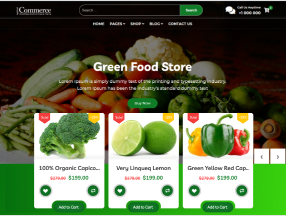
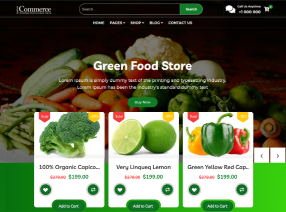
4 image added

diff --git a/index.html b/index.html
@@ -159,9 +159,24 @@
     <section class="work-gallary">
         <div class="container">
             <div class="row">
-                <div class="col-md-4">
+                <div class="col-md-3">
                     <div class="img-block">
-                        <img src="asset/img/" alt="">
+                        <img src="asset/img/gallary_1.png" alt="">
+                    </div>
+                </div>
+                <div class="col-md-3">
+                    <div class="img-block">
+                        <img src="asset/img/gallary_2.png" alt="">
+                    </div>
+                </div>
+                <div class="col-md-3">
+                    <div class="img-block">
+                        <img src="asset/img/gallary_3.png" alt="">
+                    </div>
+                </div>
+                <div class="col-md-3">
+                    <div class="img-block">
+                        <img src="asset/img/gallary_4.png" alt="">
                     </div>
                 </div>
             </div>

diff --git a/asset/css/style.css b/asset/css/style.css
@@ -258,4 +258,14 @@
 .journy-section .img-block img {
   width: 65%;
 }
+
+/*<!-- work gallary -->*/
+.work-gallary {
+  padding: 100px 0px;
+  background-color: #000;
+}
+
+.work-gallary .img-block img {
+  width: 100%;
+}
 /*# sourceMappingURL=style.css.map */

diff --git a/asset/css/style.scss b/asset/css/style.scss
@@ -236,3 +236,15 @@
         }
     }
 }
+
+/*<!-- work gallary -->*/
+
+.work-gallary{
+    padding: 100px 0px;
+    background-color: #000;
+    .img-block{
+        img{
+            width: 100%;
+        }
+    }
+}
